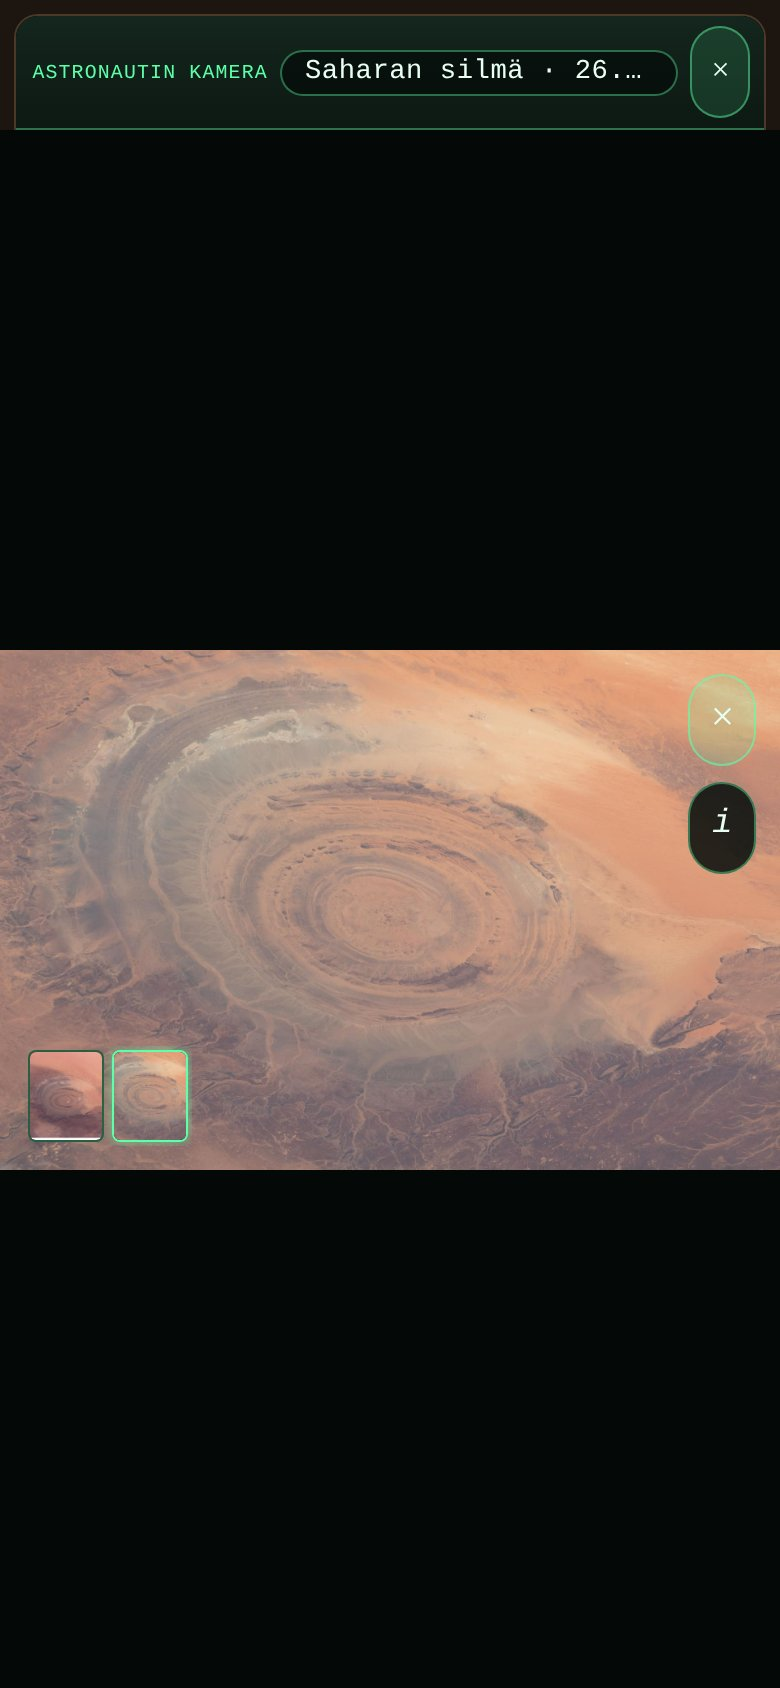
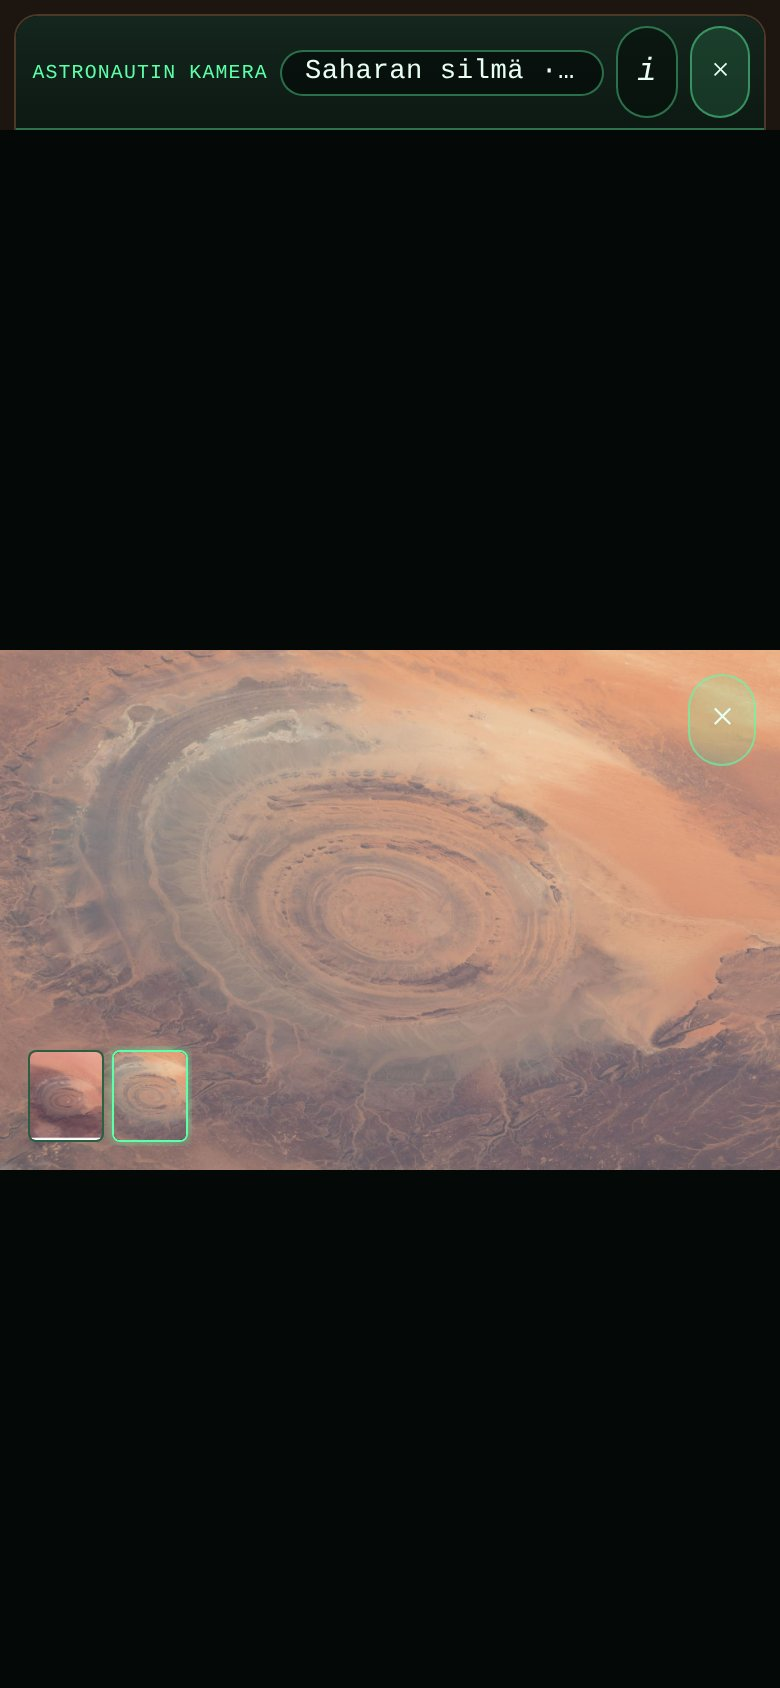
Siirrä i-nappi kuvan kulmasta yläpalkkiin pillerin oikealle puolelle
Omistajan täsmennys 15.9.2026: "siirrä 'i' pillerin oikealle puolelle".

- i-nappi (satelliittipalkki-info) elää nyt rakennaPalkki:n mukana
  yläpalkissa, heti nimi+päivä-pillerin oikealla puolella; näkyy ja
  piiloutuu samalla ehdolla kuin pilleri.
- Kuvan oikeaan yläkulmaan jää enää pelkkä ✕ (.satelliitti-kulma).
- Info-popup avautuu yläpalkin alta i-napin x-kohdalta (asemoiPopup
  mittaa napin sijainnin ja rajaa popupin ruudun sisään kapealla
  ruudulla).
- avaaHavaintokortti kytkee/irrottaa klikkauskuuntelijan joka
  avauksella, koska i-nappi on nyt palkin pysyvä elementti.

Vartiot ja kuvakaappaukset (1400 ja 390) päivitetty vastaavasti.

Mitattu: tests/satelliitti.test.mjs 45/45, savuke-satelliittilinssi.mjs
34/34 (1400x900) ja 32/32 (390x844).

Claude-Session: https://claude.ai/code/session_01TehnTdSkC74DnzEqcXkynA

Changed region(s): [[0.8615, 0.4621, 0.9846, 0.5237], [0.7385, 0.0308, 0.8923, 0.0616]]

diff --git a/js/linssit/satelliitti.js b/js/linssit/satelliitti.js
@@ -564,7 +564,12 @@ function avaaHavaintokortti({ kohde, palkki, onSuljettu }) {
    * popupin "Kuvausaika" (aikateksti), aikaa ei keksitä.
    */
 
-  /* ---- kulma: ✕ ylhäällä, i sen alla, oikeassa yläkulmassa --------- */
+  /*
+   * ---- kulma: pelkkä ✕ kuvan oikeassa yläkulmassa ------------------
+   * i-nappi asuu YLÄPALKISSA (`palkki.infoNappi`, pillerin oikealla
+   * puolella) toisen täsmennyksen jälkeen — tämä havaintokortti kytkee
+   * vain sen klikkauksen ja piilotuksen (alla), ei luo omaa nappia.
+   */
   const nappi = (luokka, teksti, otsikko) => {
     const b = html('button', luokka, teksti);
     b.type = 'button';
@@ -573,16 +578,28 @@ function avaaHavaintokortti({ kohde, palkki, onSuljettu }) {
     return b;
   };
   const sulku = nappi('satelliitti-sulku', '×', 'Sulje havainto');
-  const infoNappi = nappi('satelliitti-info', 'i', 'Havainnon tiedot');
   const kulma = html('div', 'satelliitti-kulma');
-  kulma.append(sulku, infoNappi);
+  kulma.append(sulku);
+  const infoNappi = palkki?.infoNappi ?? null;
 
   /* ---- pikkukuvat hyvin pieninä kuvan vasemmassa alakulmassa ------- */
   const nauha = html('div', 'satelliitti-nauha');
   katselu.append(lava, kulma, nauha);
   document.body.appendChild(katselu);
+  // Julistettu TÄSSÄ (ei vasta "sulkeminen"-lohkossa), koska
+  // paivitaAsemointi (alla) lukee sitä myös ENSIMMÄISELLÄ, synkronisella
+  // kutsulla — let-muuttuja ei saa olla vielä alustamatta silloin.
+  let popup = null;
   /** Molemmat mittaukset yhdellä kutsulla: palkin alareuna JA kuvan oma alue. */
-  const paivitaAsemointi = () => { asemoiYlareuna(); asemoiKulmat(); };
+  const paivitaAsemointi = () => {
+    asemoiYlareuna();
+    asemoiKulmat();
+    // Popup seuraa i-nappia (yläpalkissa) — jos se on auki resize/
+    // kääntökohdassa, se pysyy napin kohdalla (asemoiPopup on määritelty
+    // vasta myöhemmin tässä funktiossa, mutta tähän mennessä popup on
+    // aina null ensimmäisellä, synkronisella kutsulla).
+    if (popup) asemoiPopup();
+  };
   paivitaAsemointi();
   const kokovahti = typeof ResizeObserver === 'function' && palkki?.el
     ? new ResizeObserver(paivitaAsemointi) : null;
@@ -595,7 +612,6 @@ function avaaHavaintokortti({ kohde, palkki, onSuljettu }) {
   window.addEventListener('orientationchange', paivitaAsemointi);
 
   /* ---- sulkeminen -------------------------------------------------- */
-  let popup = null;
   const nappain = (e) => {
     if (e.key === 'Escape') { if (popup) { suljePopup(); return; } sulje(); return; }
     if (e.key === 'ArrowRight') nayta(indeksi + 1);
@@ -609,6 +625,11 @@ function avaaHavaintokortti({ kohde, palkki, onSuljettu }) {
     window.removeEventListener('resize', paivitaAsemointi);
     window.removeEventListener('orientationchange', paivitaAsemointi);
     document.removeEventListener('keydown', nappain);
+    // i-nappi on palkin OMA, pysyvä elementti — sen kuuntelija
+    // irrotetaan tässä, jotta seuraava havaintokortti ei kasaa niitä
+    // päällekkäin (palkki elää linssin koko avoinnaolon ajan).
+    infoNappi?.removeEventListener('click', infoNapinKlikkaus);
+    infoNappi?.setAttribute('aria-expanded', 'false');
     palkki?.nimeaKohde?.(null);
     onSuljettu?.();
   }
@@ -622,7 +643,25 @@ function avaaHavaintokortti({ kohde, palkki, onSuljettu }) {
   function suljePopup() {
     popup?.remove();
     popup = null;
-    infoNappi.setAttribute('aria-expanded', 'false');
+    infoNappi?.setAttribute('aria-expanded', 'false');
+  }
+  /*
+   * POPUP YLÄPALKIN i-NAPIN KOHDALLE (omistaja 15.9.2026: *"lisätietokentta
+   * avautuu yläpalkin alta i-napin kohdalta"*). i-napin x-paikka
+   * yläpalkissa vaihtelee kohteen nimen pituuden mukaan, joten se
+   * mitataan joka avauksella eikä kiinnitetä CSS:ään.
+   */
+  function asemoiPopup() {
+    if (!popup) return;
+    const napinRect = infoNappi?.getBoundingClientRect?.();
+    const katseluRect = katselu.getBoundingClientRect();
+    if (!napinRect || !(katseluRect.width > 0)) return;
+    const leveys = popup.offsetWidth || 380;
+    const vasenRajattu = Math.max(8, Math.min(
+      napinRect.left - katseluRect.left, katseluRect.width - leveys - 8,
+    ));
+    popup.style.left = `${Math.round(vasenRajattu)}px`;
+    popup.style.top = '8px';
   }
   const teeRivi = (nimi, arvo) => {
     if (!arvo) return null;
@@ -659,9 +698,11 @@ function avaaHavaintokortti({ kohde, palkki, onSuljettu }) {
       teeRivi('Kuvakirjasto', ulkolinkki('NASA Image and Video Library', SATELLIITTI_LAHDE.osoite)),
     ]) if (rivi) popup.appendChild(rivi);
     katselu.appendChild(popup);
-    infoNappi.setAttribute('aria-expanded', 'true');
+    asemoiPopup();
+    infoNappi?.setAttribute('aria-expanded', 'true');
   };
-  infoNappi.addEventListener('click', (e) => { e.stopPropagation(); avaaPopup(); });
+  const infoNapinKlikkaus = (e) => { e.stopPropagation(); avaaPopup(); };
+  infoNappi?.addEventListener('click', infoNapinKlikkaus);
 
   /*
    * VERTAA-TOIMINTO ON POISTETTU (omistaja 15.9.2026, kysymyskortilla:
@@ -907,6 +948,23 @@ export function rakennaPalkki({ ui, kohteet, onSulje, doc = document }) {
   kohdenimi.textContent = '';
 
   /*
+   * i-NAPPI HETI PILLERIN OIKEALLA PUOLELLA (omistaja 15.9.2026,
+   * TÄSMENNYS: *"siirrä 'i' pillerin oikealle puolelle"*). Nappi asui
+   * ensin kuvan oikeassa yläkulmassa ✕:n alla; toinen kaappaus siirsi
+   * sen tähän. Klikkauksen käsittelijän kytkee avaaHavaintokortti
+   * (havainnon tiedot riippuvat auki olevasta kohteesta, ei palkista
+   * itsestään) — tämä on vain paikka ja ulkoasu. Piilossa, kun kuvaa
+   * ei ole auki (sama ehto kuin pillerillä).
+   */
+  const infoNappi = doc.createElement('button');
+  infoNappi.type = 'button';
+  infoNappi.className = 'satelliittipalkki-info';
+  infoNappi.textContent = 'i';
+  infoNappi.title = 'Havainnon tiedot';
+  infoNappi.setAttribute('aria-label', 'Havainnon tiedot');
+  infoNappi.hidden = true;
+
+  /*
    * OHJETEKSTI KERTOO LÄHTEEN, EI KÄYTTÖÄ (omistaja 15.9.2026,
    * työpöytäkuva linssistä: *"ota pois tuon 'Napauta hohtavaa vihreää
    * pistettä' -teksti. Ja sen tilalla voisi lukea jotain NASAsta ...
@@ -938,7 +996,7 @@ export function rakennaPalkki({ ui, kohteet, onSulje, doc = document }) {
   sulje.title = 'Sulje linssi ja palaa peliin';
   sulje.addEventListener('click', () => onSulje?.());
 
-  palkki.append(nimi, kohdenimi, ohje, sulje);
+  palkki.append(nimi, kohdenimi, infoNappi, ohje, sulje);
 
   /*
    * YLÄPALKIN KORKEUS MITATAAN ENNEN PIILOTUSTA — sama kaava kuin
@@ -956,15 +1014,19 @@ export function rakennaPalkki({ ui, kohteet, onSulje, doc = document }) {
   return {
     el: palkki,
     kohdenimi,
+    /** i-nappi (havaintokortti kytkee klikkauksen ja piilotuksen tähän). */
+    infoNappi,
     /*
      * Kohteen nimi (+ päivä) palkkiin (tai null pois). Korkeus ei
      * muutu. NASA-rivi (ohje) näkyy VAIN kun pilleri on tyhjä — kuva
      * auki -tilassa pilleri korvaa sen, kartalla ilman kuvaa NASA-rivi
-     * palaa (ks. tiedoston yllä oleva kommentti).
+     * palaa (ks. tiedoston yllä oleva kommentti). i-nappi näkyy ja
+     * piilee SAMALLA ehdolla kuin pilleri.
      */
     nimeaKohde: (teksti) => {
       kohdenimi.textContent = teksti ?? '';
       ohje.hidden = Boolean(teksti);
+      infoNappi.hidden = !teksti;
     },
     pura: () => {
       palkki.remove();

diff --git a/css/satelliitti.css b/css/satelliitti.css
@@ -313,6 +313,36 @@ body.aikajana-palkki-auki .topbar {
 }
 
 /*
+ * i-NAPPI HETI PILLERIN OIKEALLA PUOLELLA (omistaja 15.9.2026,
+ * TÄSMENNYS: *"siirrä 'i' pillerin oikealle puolelle"*). Sama pieni
+ * pyöreä nappityyli kuin ✕-napilla (`.satelliittipalkki-sulje`), mutta
+ * ilman `margin-left: auto` — se pysyy paikallaan pillerin vierellä,
+ * ja ✕ jää yksin työntämään itsensä oikeaan reunaan. Piilossa, kun
+ * pilleri on tyhjä (ei kuvaa auki): `rakennaPalkki().nimeaKohde` näyttää/
+ * piilottaa sen yhdessä pillerin kanssa.
+ */
+.satelliittipalkki-info {
+  flex: 0 0 auto;
+  width: 1.9rem;
+  height: 1.9rem;
+  padding: 0;
+  border-radius: 999px;
+  border: 1px solid rgba(93, 255, 168, 0.4);
+  background: rgba(6, 13, 10, 0.55);
+  color: #eafff3;
+  font-family: var(--font-type, system-ui), system-ui, sans-serif;
+  font-size: 1rem;
+  font-style: italic;
+  line-height: 1;
+  display: flex;
+  align-items: center;
+  justify-content: center;
+  cursor: pointer;
+}
+.satelliittipalkki-info:hover { background: rgba(93, 255, 168, 0.22); }
+.satelliittipalkki-info[hidden] { display: none; }
+
+/*
  * NASA-rivi näkyy kartalla ilman kuvaa; kuvan ollessa auki `[hidden]`
  * piilottaa sen ja pilleri (yllä) kertoo kohteen ja päivän sen
  * tilalla (js/linssit/satelliitti.js rakennaPalkki nimeaKohde).
@@ -471,21 +501,25 @@ body.aikajana-palkki-auki .topbar {
  * on, ja vasta sitten milloin.
  */
 /*
- * ═══ KULMA: ✕ JA i KUVAN OIKEASSA YLÄKULMASSA (omistaja 15.9.2026 klo
- * 11.45 UTC, työpöytäkuva Etnasta; TÄSMENNYS samana päivänä
- * jälkikaappauksesta) ═══════════════════════════════════════════
+ * ═══ KULMA: PELKKÄ ✕ KUVAN OIKEASSA YLÄKULMASSA (omistaja 15.9.2026
+ * klo 11.45 UTC, työpöytäkuva Etnasta; TÄSMENNYS samana päivänä
+ * kahdesti — jälkikaappauksesta JA "siirrä i pillerin oikealle
+ * puolelle") ═══════════════════════════════════════════════════
  *
- * Sanatarkasti: *"siirrat alakulman X niin kuvan oikean ylareunaan
- * pienena pyoreana X... I-nappi saisi tulla kuvan sulkemisen napin
- * alapuolelle"*. Kaksi pientä pyöreää nappia pinossa, KUVAN sisällä
- * pienellä sisennyksellä — EI lavan (koko ruudun) kulmassa.
+ * ALKUPERÄINEN SIJOITUS: *"siirrat alakulman X niin kuvan oikean
+ * ylareunaan pienena pyoreana X... I-nappi saisi tulla kuvan
+ * sulkemisen napin alapuolelle"* — ✕ ja i olivat molemmat kuvan
+ * kulmassa pinossa. TOINEN TÄSMENNYS siirsi i:n YLÄPALKKIIN pillerin
+ * (kohde+päivä) oikealle puolelle (ks. `.satelliittipalkki-info`
+ * alempana `.satelliittipalkki`-säännöistä) — kuvan kulmaan jää
+ * enää VAIN ✕.
  *
  * KUVA EI TÄYTÄ AINA KOKO LAVAA. `.satelliitti-kuva` säilyttää oman
  * kuvasuhteensa (max-width/height: 100%, ei object-fitiä) ja on
  * keskitetty lavan sisällä — muun muotoisella kuvalla syntyy musta
  * marginaali sivuille TAI ylä-/alapuolelle. Jälkikaappaus 15.9.2026
- * paljasti, että napit olivat tässä marginaalissa eivätkä kuvan
- * päällä, koska `right/top: 10px` mitattiin LAVASTA eikä kuvasta.
+ * paljasti, että ✕ oli tässä marginaalissa eikä kuvan päällä, koska
+ * `right/top: 10px` mitattiin LAVASTA eikä kuvasta.
  *
  * KORJAUS: js/linssit/satelliitti.js `asemoiKulmat` mittaa kuvan
  * todellisen piirtoalueen ja kirjoittaa marginaalin CSS-muuttujiin
@@ -503,8 +537,7 @@ body.aikajana-palkki-auki .topbar {
   gap: 8px;
 }
 
-.satelliitti-sulku,
-.satelliitti-info {
+.satelliitti-sulku {
   flex: 0 0 auto;
   width: 2.1rem;
   height: 2.1rem;
@@ -519,18 +552,9 @@ body.aikajana-palkki-auki .topbar {
   align-items: center;
   justify-content: center;
   cursor: pointer;
-}
-
-.satelliitti-sulku {
   font-size: 1.3rem;
   border-color: rgba(93, 255, 168, 0.6);
   background: rgba(93, 255, 168, 0.16);
-}
-
-.satelliitti-info {
-  font-family: var(--font-type, system-ui), system-ui, sans-serif;
-  font-size: 1.05rem;
-  font-style: italic;
 }
 
 /*
@@ -581,16 +605,21 @@ body.aikajana-palkki-auki .topbar {
 .satelliitti-pikku img { display: block; width: 100%; height: 100%; object-fit: cover; }
 
 /*
- * ── info-popup: pieni ikkuna KUVAN oikeassa yläkulmassa, nappien
- * PÄÄLLÄ (omistaja 15.9.2026: *"lisatietokentta voisi avautua sitten
- * heti sulkemisnapin ja I-napin paalle sinne oikeaan ylareunaan"*) —
- * SAMASSA kulmassa kuin ✕ ja i (samat marginaalimuuttujat), ei enää
- * vasemmalla alhaalla eikä lavan kulmassa.
+ * ── info-popup: pieni ikkuna YLÄPALKIN ALTA, i-NAPIN KOHDALTA
+ * (omistaja 15.9.2026, TÄSMENNYS: *"siirrä i pillerin oikealle
+ * puolelle"* — i-nappi asuu nyt yläpalkissa (`.satelliittipalkki-
+ * info`), ei kuvan kulmassa, ja lisätietokenttä seuraa sitä).
+ *
+ * `left` LASKETAAN JS:LLÄ (js/linssit/satelliitti.js avaaPopup →
+ * asemoiPopup), koska i-napin x-paikka yläpalkissa vaihtelee kohteen
+ * nimen pituuden mukaan — kiinteä CSS-arvo ei voisi osua sen kohdalle.
+ * `top` on kiinteä: katselu (fixed) alkaa jo yläpalkin alareunasta,
+ * joten pieni lisäys riittää viemään popupin heti sen alle.
  */
 .satelliitti-popup {
   position: absolute;
-  right: calc(var(--satelliitti-kuva-marginaali-x, 0px) + 12px);
-  top: calc(var(--satelliitti-kuva-marginaali-y, 0px) + 12px);
+  top: 8px;
+  left: 12px;
   z-index: 5;
   box-sizing: border-box;
   width: min(380px, calc(100vw - 24px));

diff --git a/docs/raportit/viesti-fable-astronautin-kamera-20260915.md b/docs/raportit/viesti-fable-astronautin-kamera-20260915.md
@@ -35,6 +35,25 @@ löytyi ensimmäisestä kaappauksesta ja korjattiin samaan haaraan:
 Mitattu uudelleen: `tests/satelliitti.test.mjs` 44/44,
 `savuke-satelliittilinssi.mjs` 33/33 (1400×900) ja 31/31 (390×844).
 
+**TOINEN JÄLKIKORJAUS 15.9.2026 (omistaja, sanatarkasti: "siirrä 'i'
+pillerin oikealle puolelle"):** i-nappi siirrettiin kuvan oikeasta
+yläkulmasta (✕:n alta) YLÄPALKKIIN, heti nimi/päivä-pillerin oikealle
+puolelle — sama pieni pyöreä nappityyli (uusi `.satelliittipalkki-info`),
+näkyy/piiloutuu samalla ehdolla kuin pilleri (`rakennaPalkki().
+nimeaKohde`). Kuvan oikeaan yläkulmaan jää enää vain ✕ (`.satelliitti-
+kulma`, nyt yhden napin kotelo). Lisätietokenttä avautuu YLÄPALKIN
+ALTA i-napin x-paikan kohdalta (uusi `asemoiPopup()`, mittaa i-napin
+`getBoundingClientRect()`:n ja rajaa popupin ruudun sisään kapealla
+ruudulla — 390 px:llä popup on leveämpi kuin tila napin oikealla
+puolella, joten se siirtyy vasemmalle mutta pysyy yläpalkin alla).
+`avaaHavaintokortti` kytkee ja irrottaa klikkauskuuntelijan
+(`infoNapinKlikkaus`) joka avauksella/sulkemisella, koska i-nappi on
+nyt palkin PYSYVÄ elementti eikä kuvan oma kertakäyttöinen nappi.
+
+Mitattu kolmannen kerran: `tests/satelliitti.test.mjs` 45/45,
+`savuke-satelliittilinssi.mjs` 34/34 (1400×900) ja 32/32 (390×844).
+Kaappaukset päivitetty uudelleen samoihin tiedostoihin.
+
 ## Osa 1: X-nappi, NASA-rivi, Liiku-nappi piiloon (js/tyohuone-raamattu.js
 "ASTRONAUTIN KAMERA -LINSSI: TARKEMPI RELIEFI, X-NAPPI, NASA-RIVI, EI
 LIIKU-NAPPIA")
